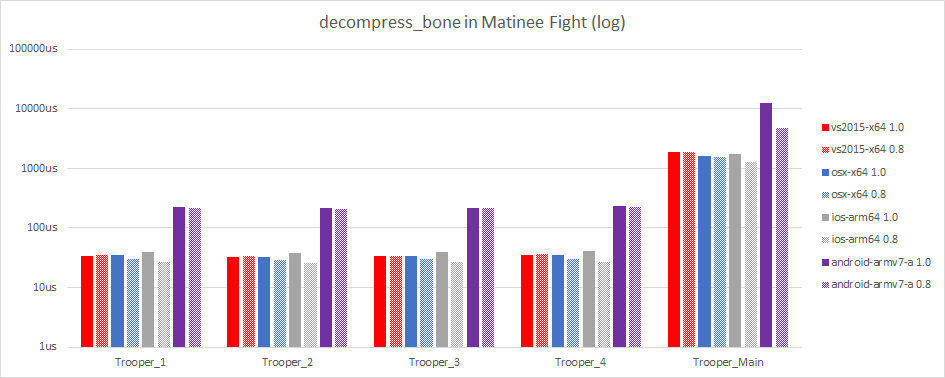
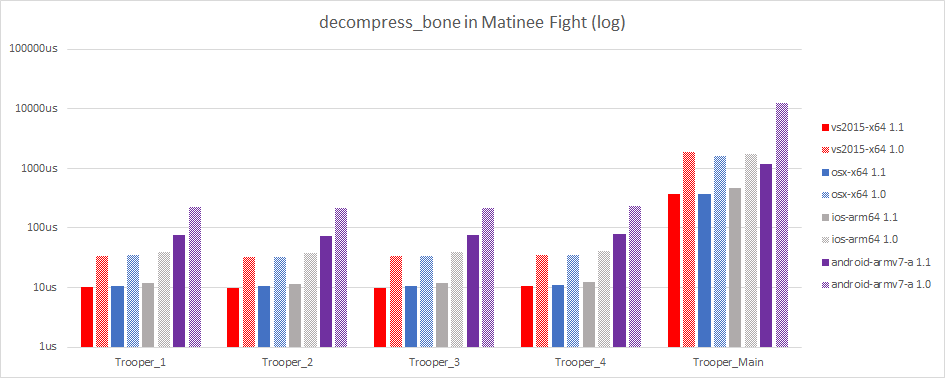
Updating decompression stats and graphs.

diff --git a/docs/decompression_performance.md b/docs/decompression_performance.md
@@ -18,13 +18,19 @@ Here are the platforms we measure on:
 
 We only show a few compilers and architectures to keep the graphs readable. The *Visual Studio 2017* numbers are nearly identical to *Visual Studio 2015* and are omitted for that reason. *GCC 7* lands in between *VS 2015* and *Clang 5* and is omitted. Only *VS 2015* is shown for *x86* because it is generally a bit slower than the *x64* variant for all compilers and it isn't commonly used in games.
 
-**Unless otherwise specified, the results are from release [1.0.0](https://github.com/nfrechette/acl/releases/tag/v1.0.0)**
+**Unless otherwise specified, the results are from release [1.1.0](https://github.com/nfrechette/acl/releases/tag/v1.1.0)**
 
 ## Uniformly sampled algorithm
 
-The uniformly sampled algorithm offers consistent performance regardless of the playback direction. Shown here is `decompress_pose` with a cold CPU cache: forward is **Red**, backward is **Green**, and random is **Blue**.
+The uniformly sampled algorithm offers consistent performance regardless of the playback direction. Shown here is the median performance of `decompress_pose` with a cold CPU cache for **3** clips with forward, backward, and random playback on the *iPad*.
 
-![Uniform iOS Playback Performance](images/acl_decomp_uniform_ios_arm64_playback.png)
+| Clip Name    | Forward   | Backward  | Random    |
+| ------------ | --------- | --------- | --------- |
+| 104_30       | 2.209 us  | 2.208 us  | 2.208 us  |
+| Trooper_1    | 4.084 us  | 4.292 us  | 4.125 us  |
+| Trooper_Main | 40.917 us | 41.625 us | 40.917 us |
+
+As can be seen, the performance is consistent regardless of the playback direction.
 
 ### decompress_pose
 
@@ -36,7 +42,9 @@ This function decompresses a whole pose in one go. Shown here is forward playbac
 Here is the delta with the previous version:
 
 ![Uniform decompress_pose CMU Performance Delta](images/acl_decomp_delta_uniform_pose_cmu.png)
+![Uniform decompress_pose CMU Speed Delta](images/acl_decomp_delta_uniform_pose_cmu_speed.png)
 ![Uniform decompress_pose Matinee Performance Delta](images/acl_decomp_delta_uniform_pose_matinee.png)
+![Uniform decompress_pose Matinee Speed Delta](images/acl_decomp_delta_uniform_pose_matinee_speed.png)
 
 ### decompress_bone
 
@@ -48,4 +56,6 @@ This function decompresses a single bone. To generate the graphs, we measure the
 Here is the delta with the previous version:
 
 ![Uniform decompress_bone CMU Performance Delta](images/acl_decomp_delta_uniform_bone_cmu.png)
+![Uniform decompress_bone CMU Speed Delta](images/acl_decomp_delta_uniform_bone_cmu_speed.png)
 ![Uniform decompress_bone Matinee Performance Delta](images/acl_decomp_delta_uniform_bone_matinee.png)
+![Uniform decompress_bone Matinee Speed Delta](images/acl_decomp_delta_uniform_bone_matinee_speed.png)
